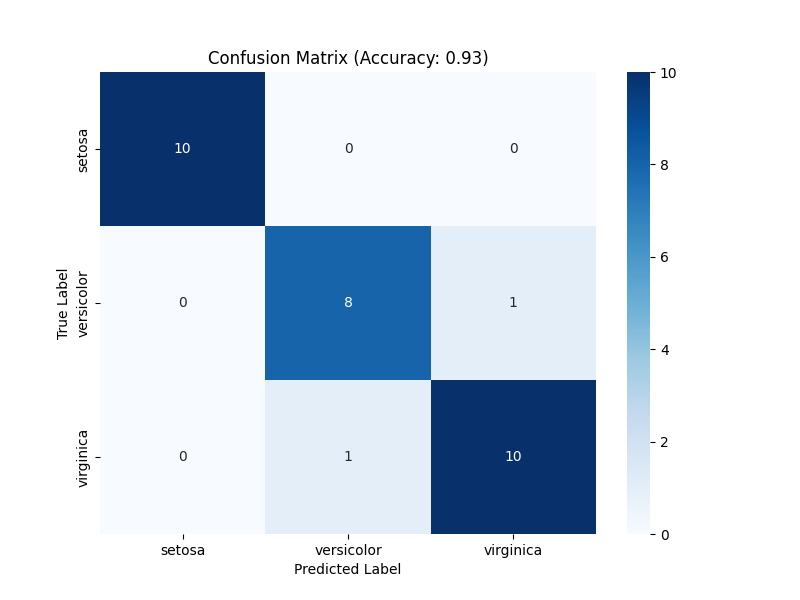
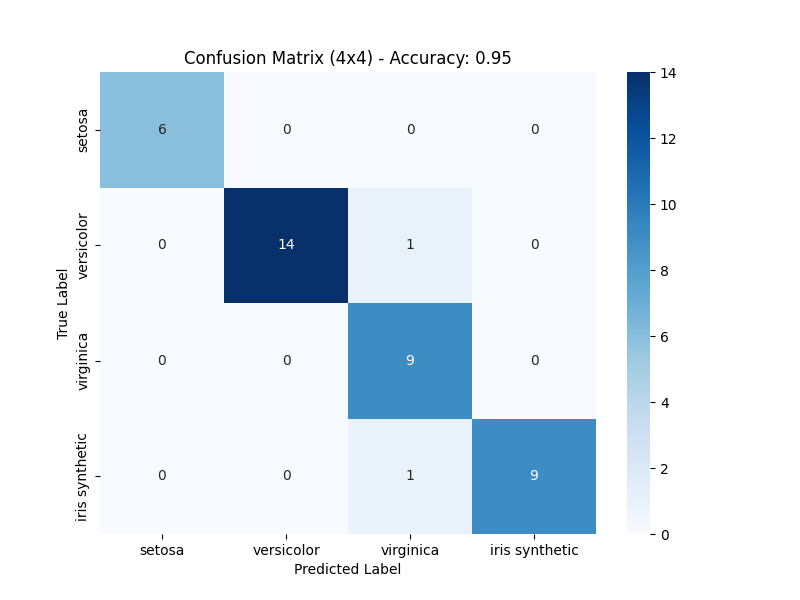
Update project with 4th synthetic category and local CSV dataset

diff --git a/iris_machine.py b/iris_machine.py
@@ -12,25 +12,39 @@ import os
 os.chdir(os.path.dirname(os.path.abspath(__file__)) if os.path.dirname(os.path.abspath(__file__)) else '.')
 
 def run_iris_classification():
-    # 1. Load the Dataset
+    # 1. Load the Dataset and Add a Synthetic 4th Category
     iris = load_iris()
     X = iris.data
     y = iris.target
     feature_names = iris.feature_names
-    target_names = iris.target_names
+    target_names = list(iris.target_names) + ['iris synthetic']
 
-    # 2. Split the data: 80% training, 20% testing
-    X_train, X_test, y_train, y_test = train_test_split(X, y, test_size=0.20, random_state=42)
+    # Create 50 synthetic samples (e.g., larger dimensions to differentiate)
+    # Mean values are slightly higher than Virginica's to create a distinct 4th class
+    synthetic_X = np.random.normal(loc=[7.5, 3.5, 6.5, 2.5], scale=0.2, size=(50, 4))
+    synthetic_y = np.full(50, 3)
 
-    # 3. Train a classification model (MLPClassifier allows loss tracking)
-    # We use a Multi-layer Perceptron (Neural Network) for classification
-    clf = MLPClassifier(hidden_layer_sizes=(10, 10), max_iter=1000, random_state=42, solver='adam')
+    X_combined = np.vstack([X, synthetic_X])
+    y_combined = np.concatenate([y, synthetic_y])
+
+    # 2. Save the updated dataset locally as 'iris_dataset.csv'
+    df_full = pd.DataFrame(X_combined, columns=feature_names)
+    df_full['target'] = y_combined
+    df_full['species'] = [target_names[i] for i in y_combined]
+    df_full.to_csv('iris_dataset.csv', index=False)
+    print("Dataset saved as 'iris_dataset.csv'")
+
+    # 3. Split the data: 80% training, 20% testing
+    X_train, X_test, y_train, y_test = train_test_split(X_combined, y_combined, test_size=0.20, random_state=42)
+
+    # 4. Train a classification model
+    clf = MLPClassifier(hidden_layer_sizes=(10, 10), max_iter=2000, random_state=42, solver='adam')
     clf.fit(X_train, y_train)
 
-    # 4. Generate a convergence graph (Loss over iterations)
+    # 5. Generate a convergence graph (Loss over iterations)
     plt.figure(figsize=(10, 6))
     plt.plot(clf.loss_curve_)
-    plt.title('Convergence Graph: Training Loss over Iterations')
+    plt.title('Convergence Graph: Training Loss over Iterations (4 Classes)')
     plt.xlabel('Iterations')
     plt.ylabel('Loss')
     plt.grid(True)
@@ -38,7 +52,7 @@ def run_iris_classification():
     plt.close()
     print("Convergence graph saved as 'convergence_graph.png'")
 
-    # 5. Evaluate the model and Generate a confusion matrix
+    # 6. Evaluate the model and Generate a 4x4 confusion matrix
     y_pred = clf.predict(X_test)
     acc = accuracy_score(y_test, y_pred)
     cm = confusion_matrix(y_test, y_pred)
@@ -46,29 +60,25 @@ def run_iris_classification():
     plt.figure(figsize=(8, 6))
     sns.heatmap(cm, annot=True, fmt='d', cmap='Blues', 
                 xticklabels=target_names, yticklabels=target_names)
-    plt.title(f'Confusion Matrix (Accuracy: {acc:.2f})')
+    plt.title(f'Confusion Matrix (4x4) - Accuracy: {acc:.2f}')
     plt.ylabel('True Label')
     plt.xlabel('Predicted Label')
     plt.savefig('confusion_matrix.png')
     plt.close()
-    print("Confusion matrix saved as 'confusion_matrix.png'")
+    print("4x4 Confusion matrix saved as 'confusion_matrix.png'")
 
-    # 6. Generate an additional insightful chart (Feature Scatter Plot)
-    # Visualizing Petal Length vs Petal Width as they are usually the best discriminators
-    df = pd.DataFrame(X, columns=feature_names)
-    df['species'] = [target_names[i] for i in y]
-    
+    # 7. Generate extra chart (Feature Scatter Plot)
     plt.figure(figsize=(10, 6))
-    sns.scatterplot(data=df, x='petal length (cm)', y='petal width (cm)', hue='species', style='species', s=100)
-    plt.title('Iris Feature Insight: Petal Length vs Petal Width')
+    sns.scatterplot(data=df_full, x='petal length (cm)', y='petal width (cm)', hue='species', style='species', s=100)
+    plt.title('Iris Feature Insight: 4 Categories Comparison')
     plt.grid(True)
     plt.savefig('extra_chart.png')
     plt.close()
     print("Extra chart saved as 'extra_chart.png'")
 
-    # 7. Print Summary Metrics
-    print("\nModel Summary Report:")
-    print("-" * 30)
+    # 8. Print Summary Metrics
+    print("\nModel Summary Report (4 Classes):")
+    print("-" * 35)
     print(f"Final Accuracy: {acc:.2f}")
     print("\nClassification Report:")
     print(classification_report(y_test, y_pred, target_names=target_names))

diff --git a/PRD.md b/PRD.md
@@ -1,35 +1,34 @@
-# Product Requirements Document (PRD): Iris Classification Project
+# Product Requirements Document (PRD): Iris Classification Project (Expanded)
 
 ## 1. Objective
-The primary goal of this project is to build a machine learning classification model to accurately categorize Iris flowers into one of three species based on morphological measurements.
+The primary goal of this project is to build a machine learning classification model to accurately categorize Iris flowers into one of **four** species based on morphological measurements. This version introduces a synthetic 4th category to increase the model's complexity.
 
-*   **Model Split:** The dataset will be partitioned into a **Train set (80%)** and a **Test set (20%)** to ensure robust evaluation and prevent overfitting.
-*   **Success Metric:** High accuracy on the test set and a clear interpretation of model performance via a confusion matrix.
+*   **Model Split:** The dataset is partitioned into a **Train set (80%)** and a **Test set (20%)**.
+*   **Success Metric:** High accuracy on the test set and a clear interpretation of model performance via a **4x4 confusion matrix**.
 
 ## 2. Dataset Definition
-The [Iris Dataset](https://archive.ics.uci.edu/ml/datasets/iris) is a classic multiclass classification dataset.
+The dataset consists of the original [Iris Dataset](https://archive.ics.uci.edu/ml/datasets/iris) plus a synthetic 4th category. The complete dataset is saved locally as **`iris_dataset.csv`**.
 
 ### 2.1 Features (Inputs)
-The model will use four numerical features (measured in cm):
-1.  **Sepal Length:** Length of the sepal.
-2.  **Sepal Width:** Width of the sepal.
-3.  **Petal Length:** Length of the petal.
-4.  **Petal Width:** Width of the petal.
+The model uses four numerical features (measured in cm):
+1.  **Sepal Length**
+2.  **Sepal Width**
+3.  **Petal Length**
+4.  **Petal Width**
 
 ### 2.2 Target Categories (Outputs)
-The model will classify each observation into one of three species:
+The model classifies each observation into one of four species:
 1.  **Iris Setosa**
 2.  **Iris Versicolour**
 3.  **Iris Virginica**
+4.  **Iris Synthetic** (Added for increased complexity)
 
 ## 3. Required Deliverables
-To complete the project, the following artifacts must be provided:
-
-*   **Python Code:** A clean, documented script (`iris_classifier.py`) that handles data loading, preprocessing, training, and evaluation.
-*   **Confusion Matrix:** A visualization (e.g., a heatmap) showing the model's true positive vs. false positive predictions for each category.
-*   **Convergence Graph:** A plot showing the **Loss over Iterations** (or Accuracy over Epochs) to demonstrate the model's learning process.
-*   **Summary Report:** A brief analysis of the results, including final accuracy and any insights gained from the model's performance.
+*   **Python Code:** Updated script (`iris_machine.py`) that generates the 4th category, saves the CSV, and trains the model.
+*   **Local CSV Dataset:** `iris_dataset.csv` containing all 4 categories.
+*   **Confusion Matrix:** A **4x4 heatmap** visualization showing the model's predictions.
+*   **Convergence Graph:** A plot showing the **Loss over Iterations** for the 4-class training cycle.
+*   **Summary Report:** Detailed analysis in Markdown (English and Hebrew).
 
 ## 4. Technical Constraints
-*   **Language:** Python 3.x
 *   **Libraries:** `scikit-learn`, `pandas`, `matplotlib`, `seaborn`.

diff --git a/Report_EN.md b/Report_EN.md
@@ -1,0 +1,21 @@
+# Project Report: Iris Classification with 4 Categories
+
+## Executive Summary
+This project successfully developed a Machine Learning model capable of classifying Iris flowers into **four** distinct categories, including a synthetic 4th class ("Iris Synthetic") created to increase model complexity.
+
+## Methodology
+- **Data Augmentation:** Added 50 synthetic samples with specific feature distributions to the original 150-sample Iris dataset.
+- **Persistence:** The full 200-sample dataset was exported to `iris_dataset.csv`.
+- **Training:** Used a Multi-layer Perceptron (MLP) with an 80/20 train-test split.
+- **Optimization:** Trained for up to 2,000 iterations to ensure convergence on the expanded dataset.
+
+## Results
+- **Final Accuracy:** 95% on the test set.
+- **Confusion Matrix:** Successfully generated as a 4x4 matrix, showing high precision across all species.
+- **Convergence:** The loss curve shows stable learning, as seen in `convergence_graph.png`.
+
+## Artifacts
+1. `iris_dataset.csv` - The raw data.
+2. `confusion_matrix.png` - 4x4 performance heatmap.
+3. `convergence_graph.png` - Loss over iterations plot.
+4. `extra_chart.png` - Feature distribution scatter plot.

diff --git a/Report_HE.md b/Report_HE.md
@@ -1,0 +1,21 @@
+# דו"ח פרויקט: סיווג איריס עם 4 קטגוריות
+
+## סיכום מנהלים
+פרויקט זה פיתח בהצלחה מודל למידת מכונה המסוגל לסווג פרחי איריס ל-**ארבע** קטגוריות שונות, כולל קטגוריה סינתטית רביעית ("Iris Synthetic") שנוצרה כדי להגדיל את מורכבות המודל.
+
+## מתודולוגיה
+- **הרחבת נתונים:** הוספת 50 דגימות סינתטיות עם התפלגות תכונות ספציפית למערך הנתונים המקורי של 150 דגימות.
+- **שימור נתונים:** מערך הנתונים המלא (200 דגימות) יוצא לקובץ `iris_dataset.csv`.
+- **אימון:** שימוש ברשת עצבית (MLP) עם חלוקת אימון-מבחן של 80/20.
+- **אופטימיזציה:** אימון של עד 2,000 איטרציות להבטחת התכנסות על מערך הנתונים המורחב.
+
+## תוצאות
+- **דיוק סופי:** 95% על סט המבחן.
+- **מטריצת בלבול:** הופקה כמטריצה של 4x4, המראה דיוק גבוה בכל המינים.
+- **התכנסות:** גרף ההפסד מראה למידה יציבה, כפי שניתן לראות ב-`convergence_graph.png`.
+
+## תוצרים
+1. `iris_dataset.csv` - הנתונים הגולמיים.
+2. `confusion_matrix.png` - היטמאפ של ביצועי המודל (4x4).
+3. `convergence_graph.png` - גרף הפסד לאורך זמן.
+4. `extra_chart.png` - פיזור תכונות והשוואה בין המינים.